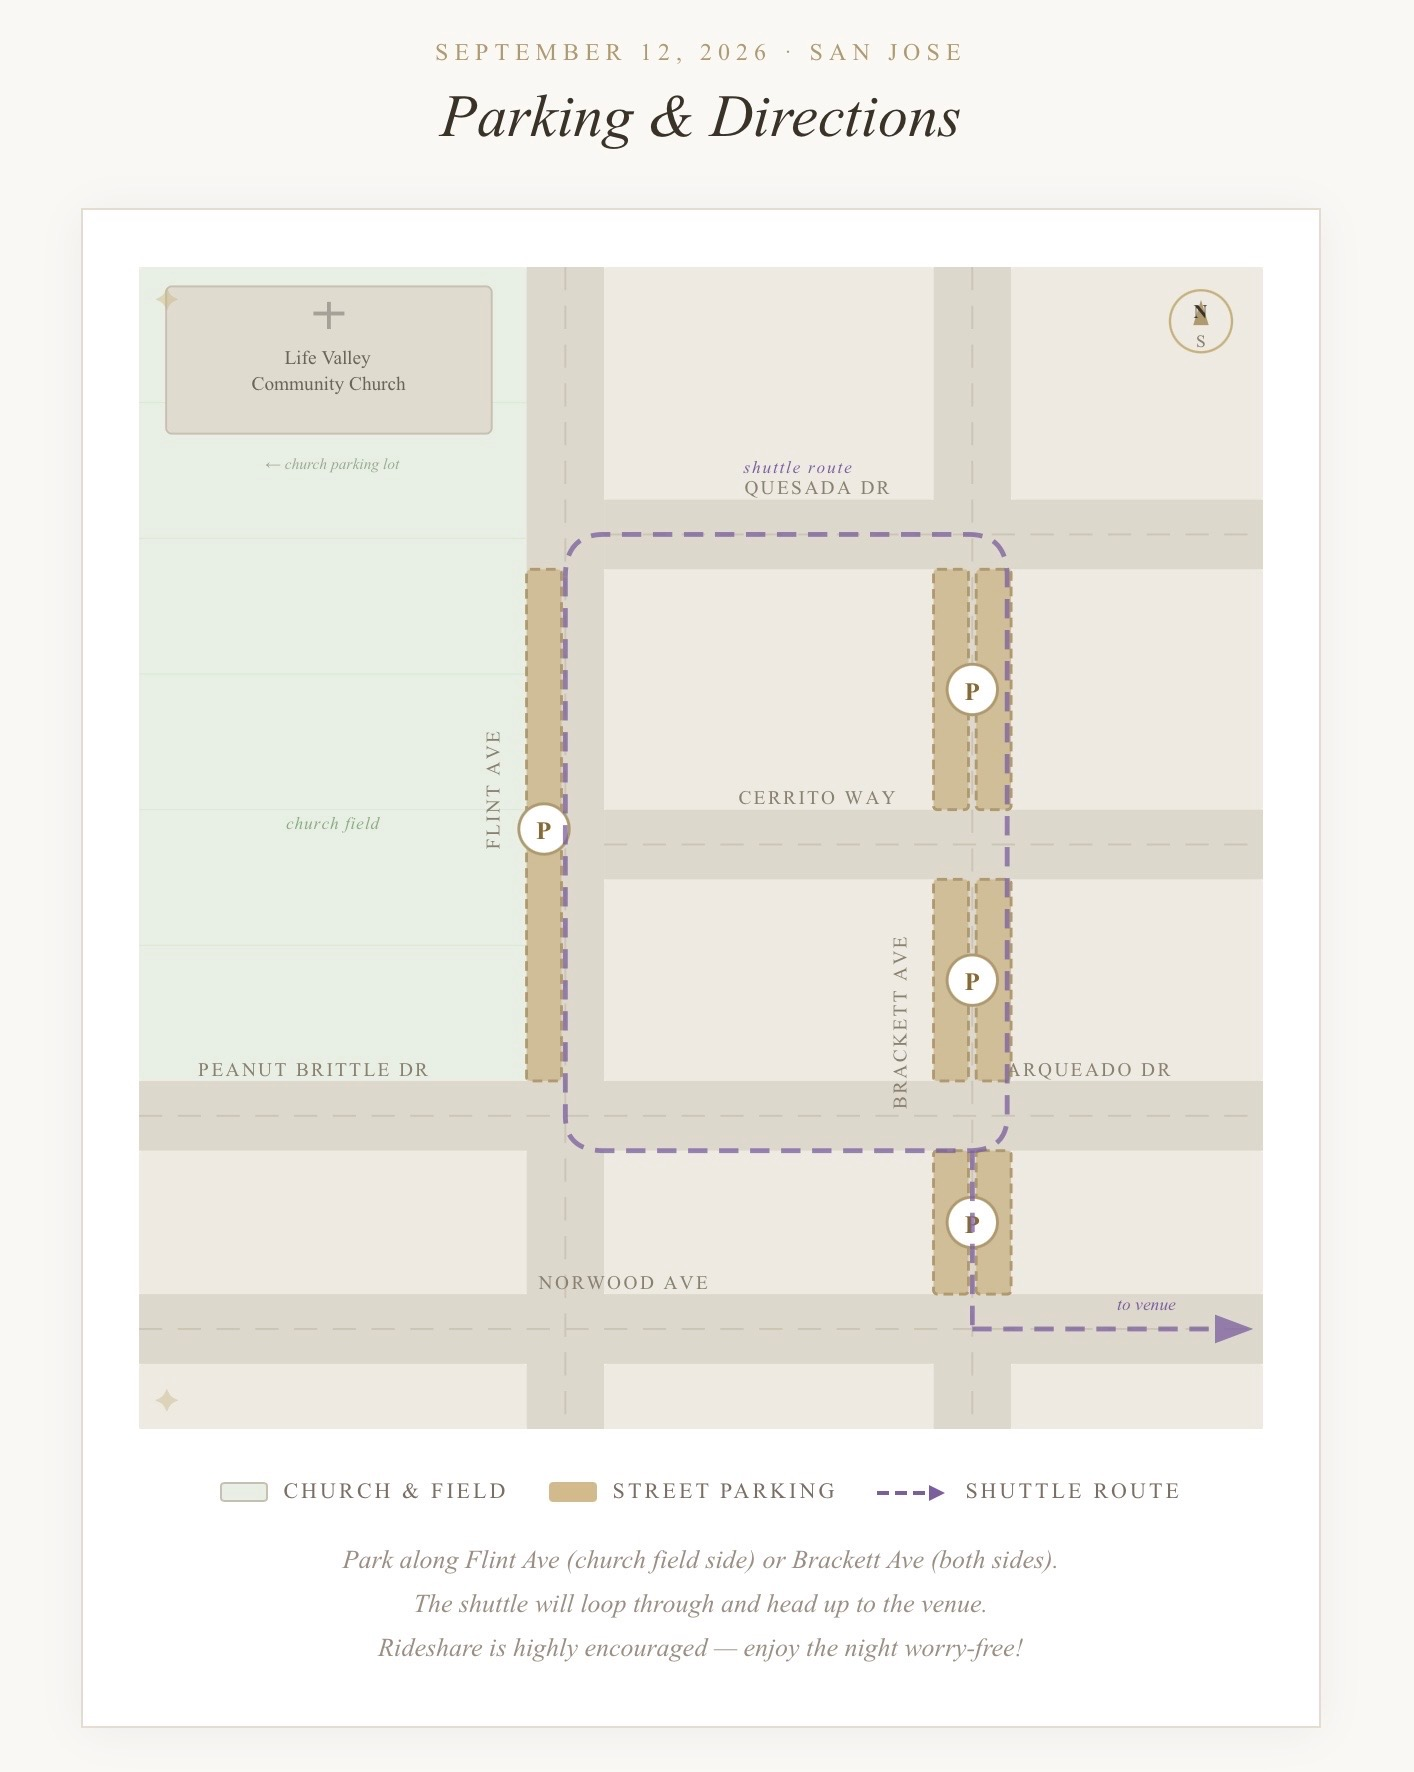
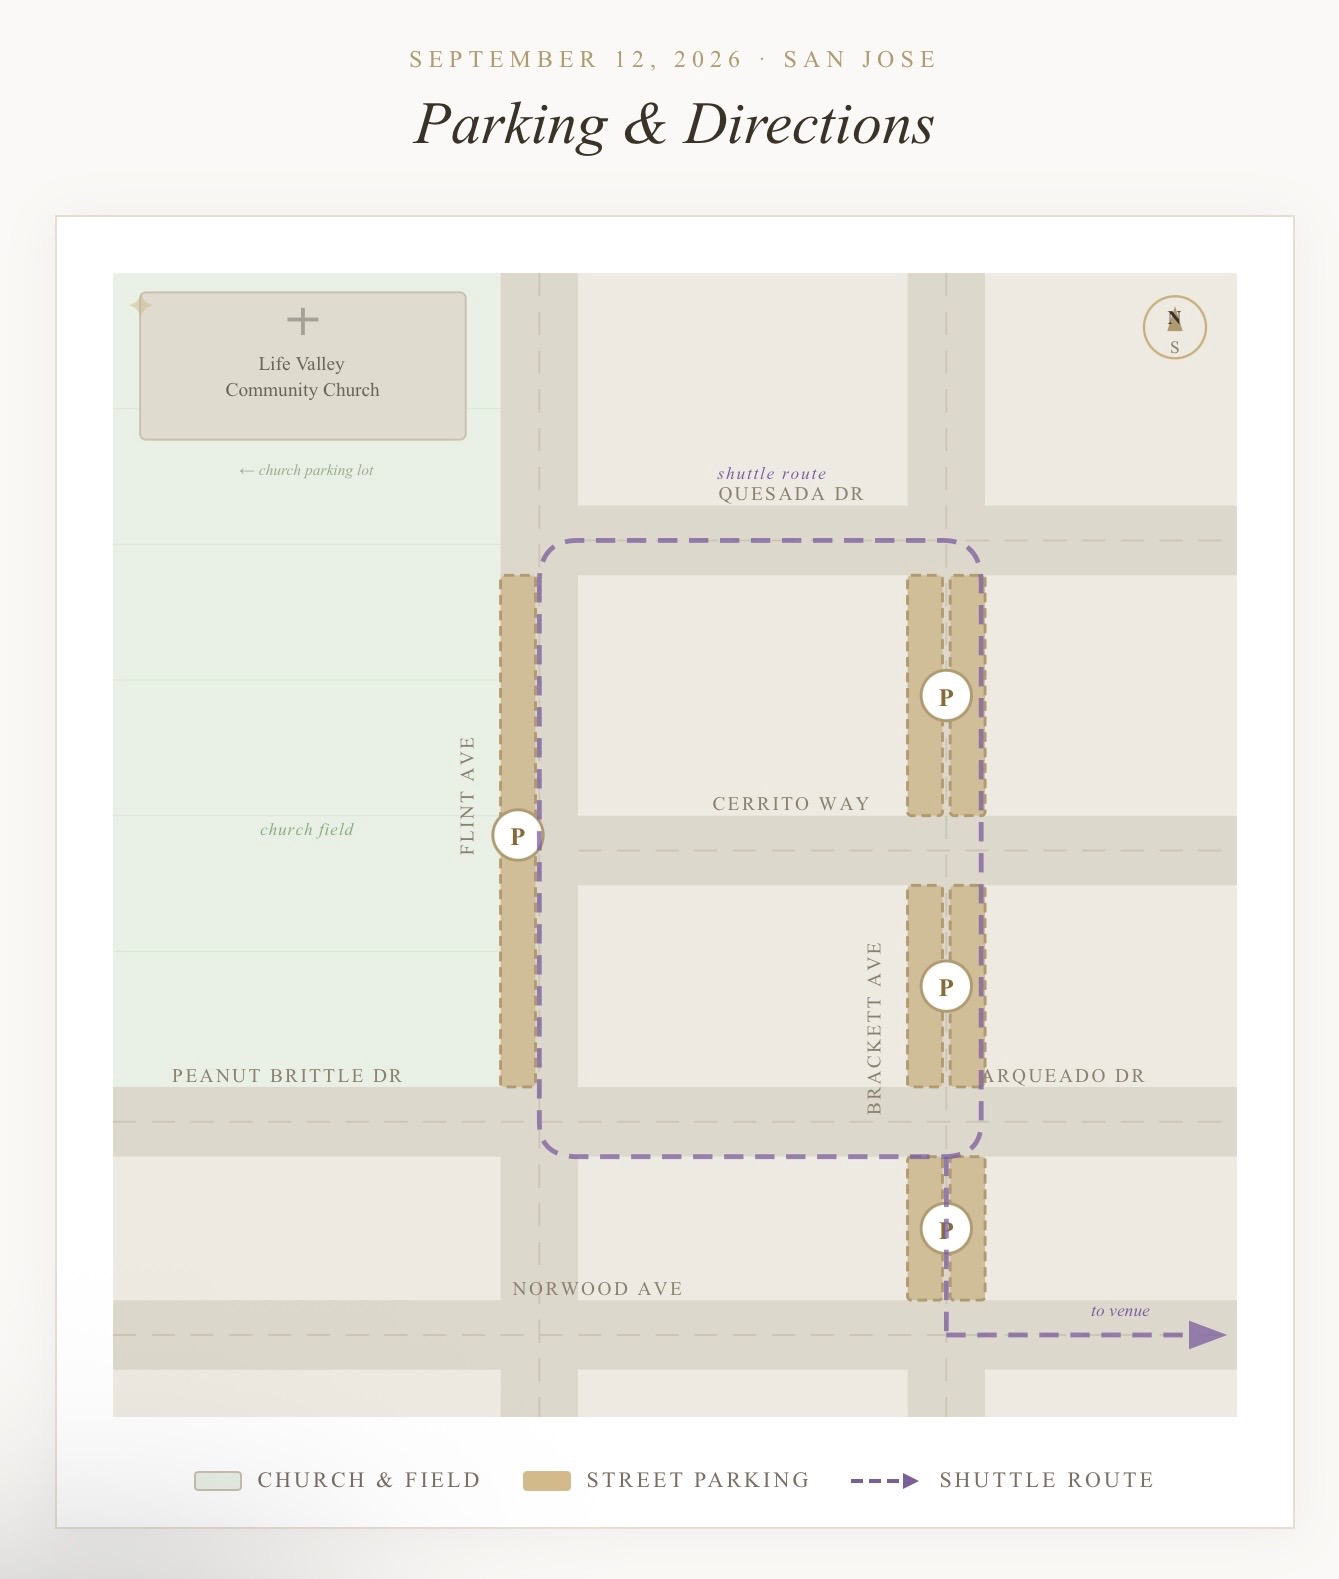
change parking pic

diff --git a/src/pages/travel.js b/src/pages/travel.js
@@ -143,31 +143,33 @@ export default function Travel() {
                             </span>
                             <h2 className={styles.header}>Getting to the Venue</h2>
                         </div>
-                        <span className={styles.sectionTag}>Rides &amp; Parking</span>
+                        <span className={styles.sectionTag}>Parking &amp; Shuttle</span>
                     </div>
 
-                    <div className={styles.ridesGrid}>
-                        <div className={styles.rideBlock}>
-                            <h3 className={styles.subheader}>Cars</h3>
+                    <div className={styles.parkingContent}>
+                        <div className={styles.parkingText}>
+                            <h3 className={styles.subheader}>Parking</h3>
                             <p className={styles.cars}>
-                                You’re welcome to rent a car to explore the Bay Area, but there is no parking on site.
+                                The venue does not have guest parking. If you’re driving, please park along our designated zones on <strong>Flint Ave</strong> and <strong>Brackett Ave</strong> (near <a href="https://www.google.com/maps/place/3311+Arqueado+Dr,+San+Jose,+CA+95148" target="_blank" rel="noopener noreferrer" style={{ color: '#c7a96e', textDecoration: 'underline' }}>3311 Arqueado Dr, San Jose, CA 95148</a>). 
                             </p>
                             <p className={styles.cars}>
-                                If you prefer to park nearby, you may park at{" "}
-                                <strong>3311 Arqueado Drive, San Jose, CA 95148</strong>.
+                                A shuttle will be looping through these streets to pick guests up and bring you directly to the venue.
+                            </p>
+                            
+                            <h3 className={styles.subheader} style={{ marginTop: '1.5rem' }}>Rideshare</h3>
+                            <p className={styles.cars}>
+                                Uber, Lyft, and Waymo are readily available throughout San Jose. We highly encourage ridesharing if you plan to drink so you can enjoy the night to the fullest!
                             </p>
                         </div>
-
-                        <div className={styles.rideBlock}>
-                            <h3 className={styles.subheader}>Uber/Lyft/Waymo</h3>
-                            <p className={styles.cars}>
-                                Rideshares are readily available throughout San Jose/Bay Area and are an easy
-                                way to travel to and from the venue.
-                            </p>
-                            <p className={styles.cars}>
-                                We are also exploring a shuttle option for guest convenience; final plans will be shared
-                                as we get closer to the wedding.
-                            </p>
+                        
+                        <div className={styles.parkingMap}>
+                            <Image 
+                                src="/images/parking-map.jpeg" 
+                                alt="Parking Map" 
+                                width={600} 
+                                height={450} 
+                                className={styles.mapImage}
+                            />
                         </div>
                     </div>
                 </section>

diff --git a/src/styles/Travel.module.css b/src/styles/Travel.module.css
@@ -200,14 +200,40 @@
 }
 
 /* Rides */
-.ridesGrid {
+.parkingContent {
     display: grid;
     grid-template-columns: 1fr;
     gap: 1.5rem;
+    margin-top: 0.5rem;
 }
 
-.rideBlock {
-    padding: 0.75rem 0 0.25rem;
+.parkingText {
+    display: flex;
+    flex-direction: column;
+}
+
+.parkingMap {
+    width: 100%;
+    display: flex;
+    flex-direction: column;
+    align-items: center;
+}
+
+.mapImage {
+    max-width: 100%;
+    height: auto;
+    border-radius: 12px;
+    border: 1px solid rgba(199, 169, 110, 0.3);
+    box-shadow: 0 4px 12px rgba(0, 0, 0, 0.08);
+}
+
+.mapCaption {
+    font-size: 0.8rem;
+    color: #8a7442;
+    margin-top: 0.5rem;
+    font-weight: 500;
+    text-transform: uppercase;
+    letter-spacing: 0.05em;
 }
 
 .subheader {
@@ -237,7 +263,8 @@
         grid-template-columns: repeat(2, minmax(0, 1fr));
     }
 
-    .ridesGrid {
-        grid-template-columns: repeat(2, minmax(0, 1fr));
+    .parkingContent {
+        grid-template-columns: 1fr 1fr;
+        align-items: flex-start;
     }
 }
